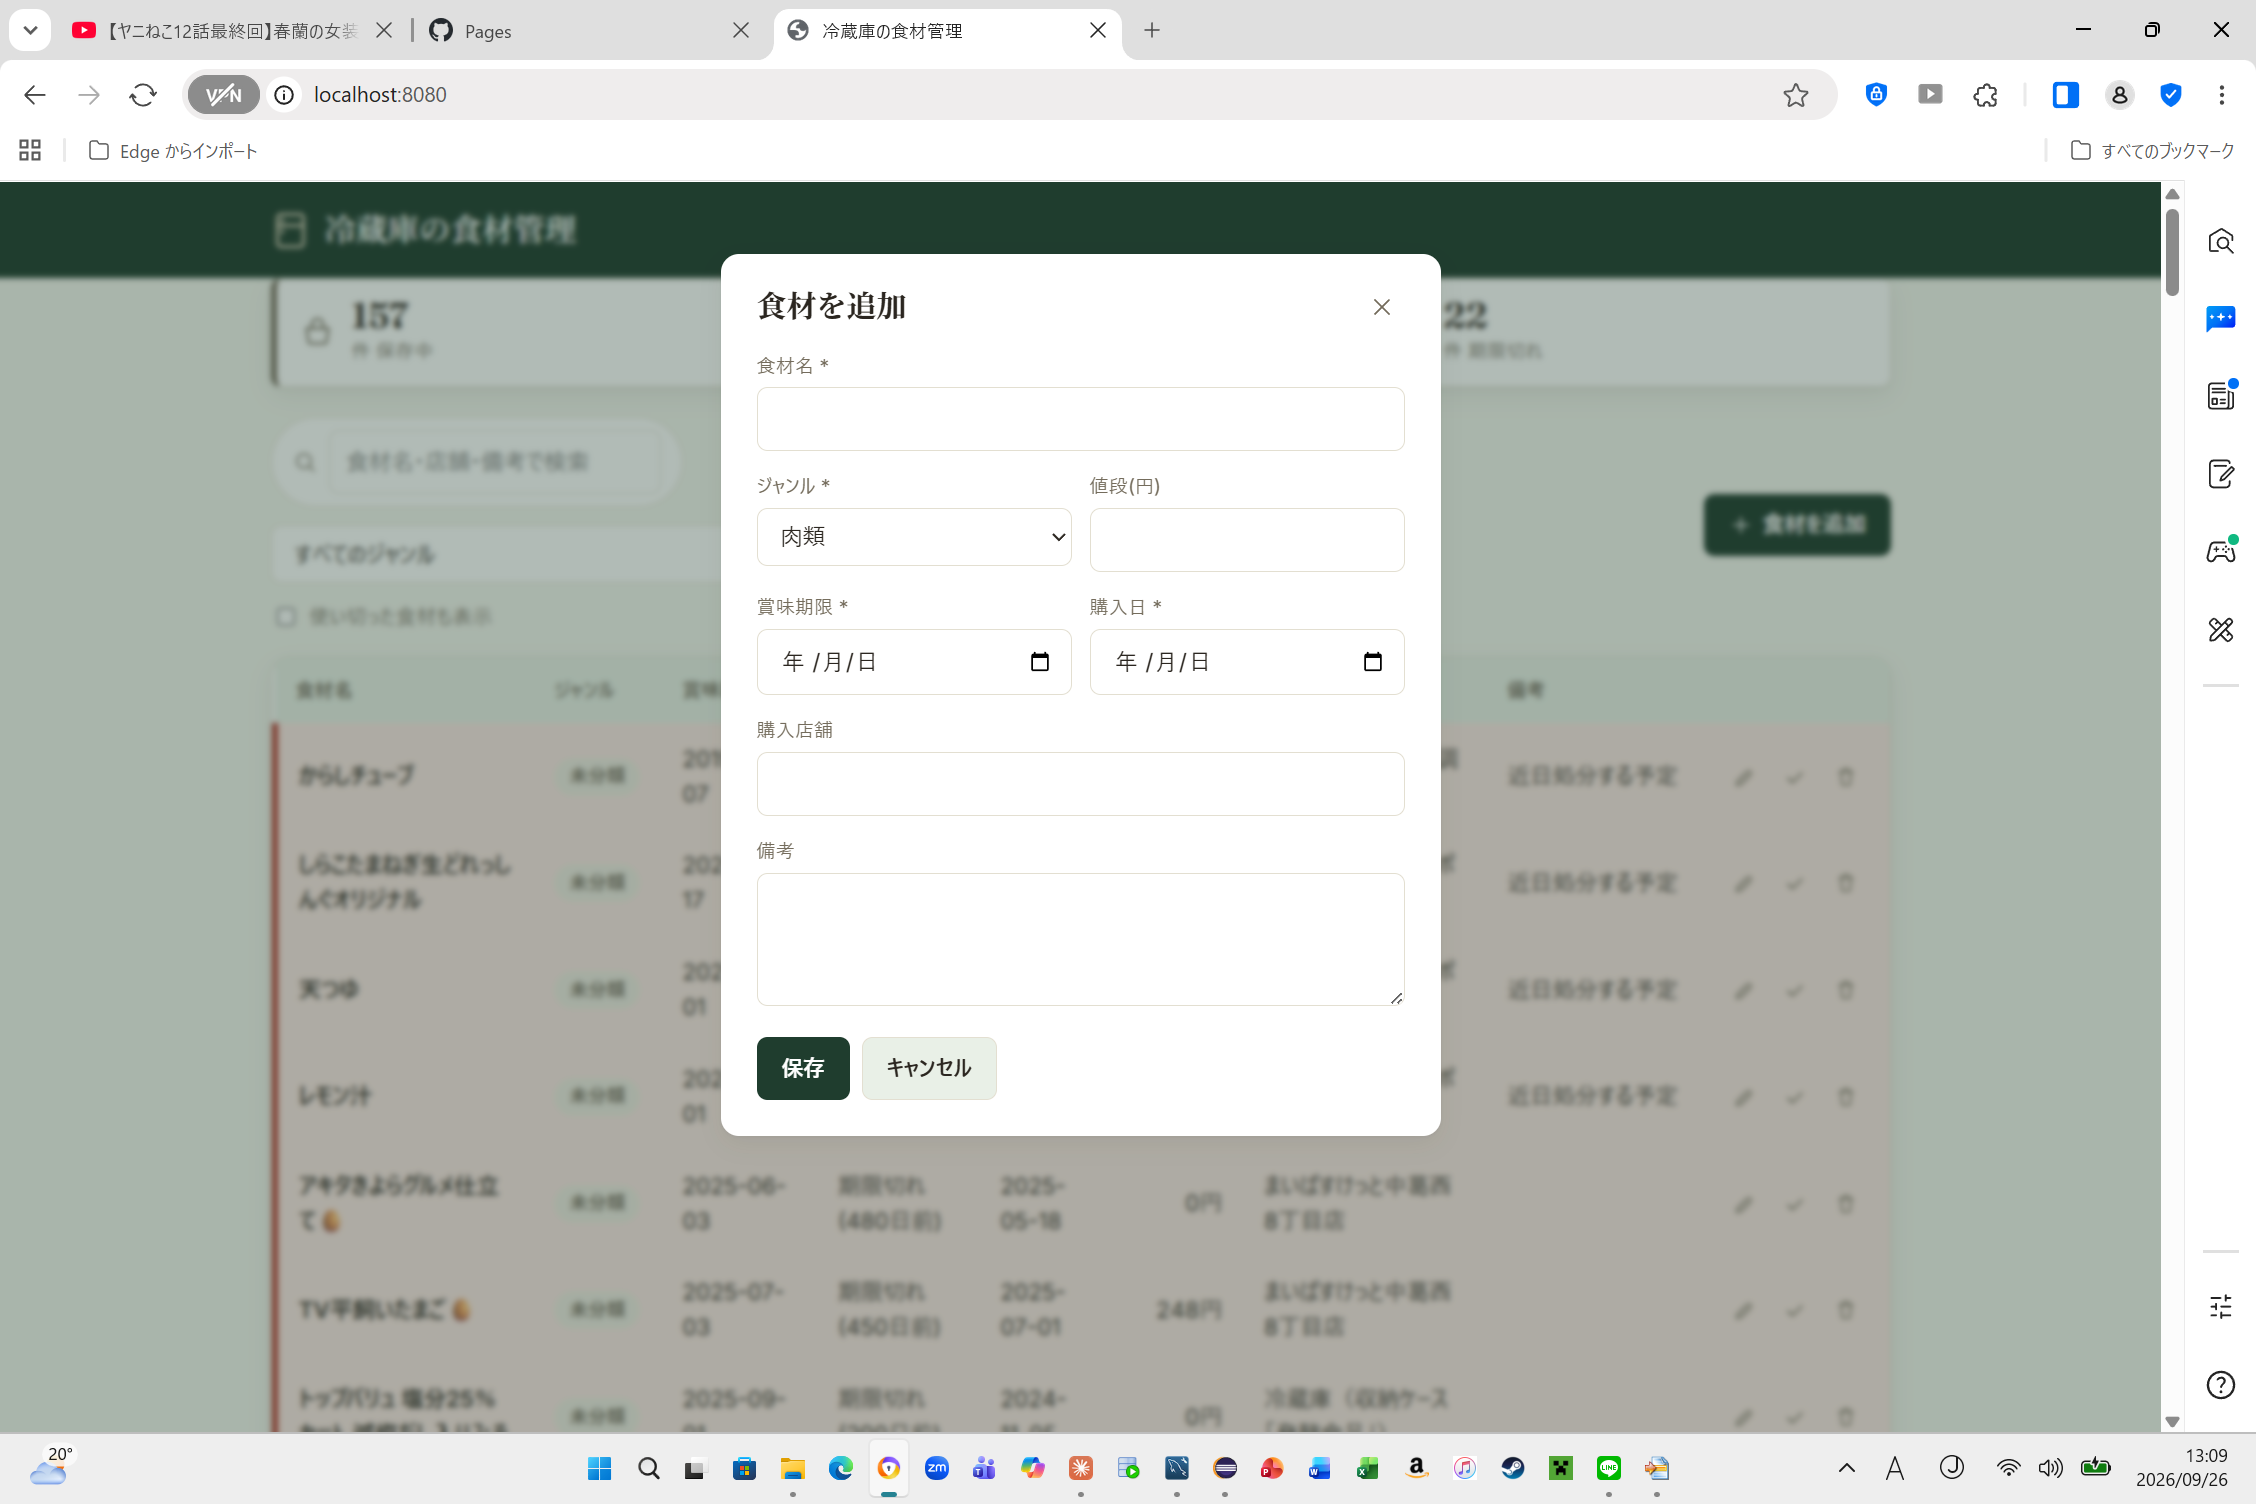
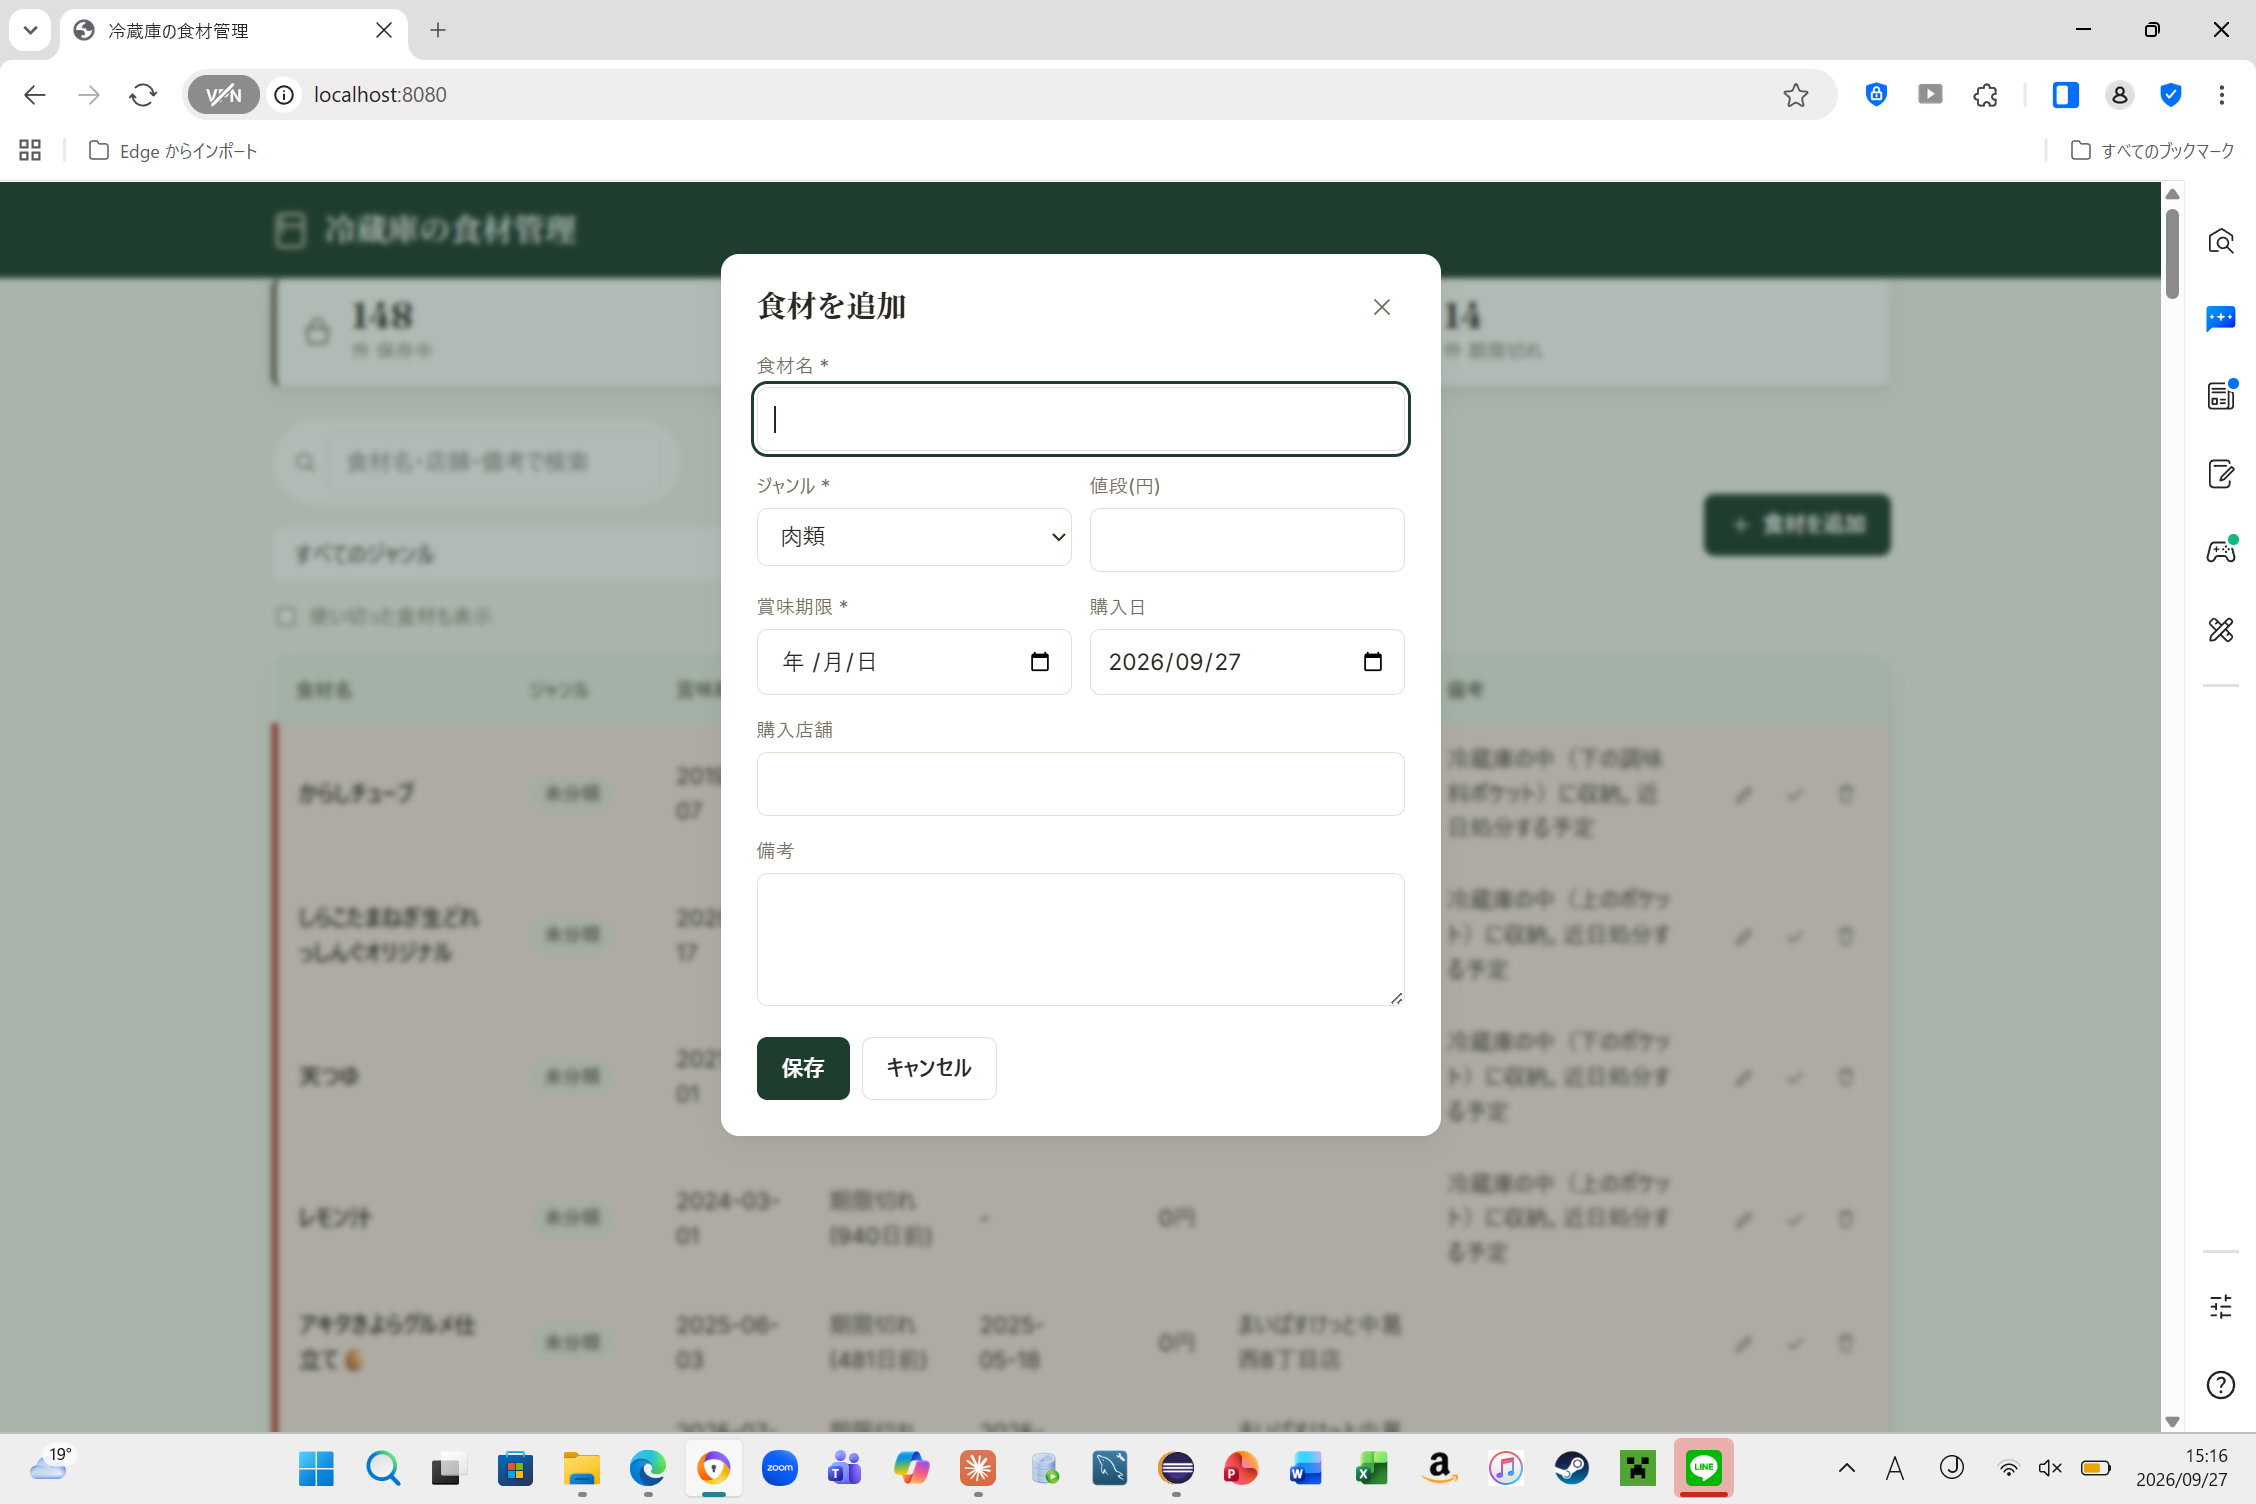
キャプチャ＋READMEを「作成物の概要」にリネーム

diff --git a/FridgeWeb/index.html b/FridgeWeb/index.html
@@ -1,0 +1,163 @@
+<!DOCTYPE html>
+<!--
+  冷蔵庫の食材管理・画面本体(HTML)。
+  中身のデータはここには書かず、script.js が /api/items から取得して
+  JavaScriptで一覧やフォームを作る(見た目は style.css、動きは script.js に分けている)。
+-->
+<html lang="ja">
+<head>
+  <meta charset="UTF-8">
+  <meta name="viewport" content="width=device-width, initial-scale=1">
+  <title>冷蔵庫の食材管理</title>
+
+  <!-- 見出し用の少しクセのあるセリフ体(Fraunces)と、本文・数値用の読みやすいゴシック体(Inter) -->
+  <link rel="preconnect" href="https://fonts.googleapis.com">
+  <link rel="preconnect" href="https://fonts.gstatic.com" crossorigin>
+  <link href="https://fonts.googleapis.com/css2?family=Fraunces:opsz,wght@9..144,500;9..144,600&family=Inter:wght@400;500;600;700&display=swap" rel="stylesheet">
+
+  <link rel="stylesheet" href="style.css">
+</head>
+<body>
+
+  <!-- ヘッダー: アプリ名だけのシンプルな帯。ロゴは絵文字ではなく線画のSVGにしている -->
+  <header class="app-header">
+    <div class="wrap header-inner">
+      <svg class="logo-mark" viewBox="0 0 24 24" fill="none" aria-hidden="true">
+        <rect x="4" y="2" width="16" height="20" rx="2.5" stroke="currentColor" stroke-width="1.6"/>
+        <line x1="4" y1="9" x2="20" y2="9" stroke="currentColor" stroke-width="1.6"/>
+        <line x1="7" y1="5.2" x2="7" y2="6.6" stroke="currentColor" stroke-width="1.6" stroke-linecap="round"/>
+        <line x1="7" y1="12" x2="7" y2="13.4" stroke="currentColor" stroke-width="1.6" stroke-linecap="round"/>
+      </svg>
+      <span class="app-title">冷蔵庫の食材管理</span>
+    </div>
+  </header>
+
+  <main class="wrap">
+
+    <!-- 操作したあとの結果メッセージ(「追加しました」など)を出す場所。普段は非表示 -->
+    <div id="toast" class="toast" role="status" hidden></div>
+
+    <!-- 件数のまとめ(全件・期限切れ・期限間近)。中の数字だけ script.js が書き換える -->
+    <div class="stat-row" aria-label="在庫のまとめ">
+      <div class="stat-ticket stat-total">
+        <svg viewBox="0 0 24 24" fill="none" aria-hidden="true"><path d="M4 9h16l-1.4 9.2a2 2 0 0 1-2 1.8H7.4a2 2 0 0 1-2-1.8L4 9Z" stroke="currentColor" stroke-width="1.6" stroke-linejoin="round"/><path d="M8 9V6a4 4 0 0 1 8 0v3" stroke="currentColor" stroke-width="1.6"/></svg>
+        <div><strong id="statTotal">0</strong><span>件 保存中</span></div>
+      </div>
+      <div class="stat-ticket stat-soon">
+        <svg viewBox="0 0 24 24" fill="none" aria-hidden="true"><path d="M12 7v5.5l3.5 2" stroke="currentColor" stroke-width="1.6" stroke-linecap="round"/><circle cx="12" cy="12" r="9" stroke="currentColor" stroke-width="1.6"/></svg>
+        <div><strong id="statSoon">0</strong><span>件 まもなく期限</span></div>
+      </div>
+      <div class="stat-ticket stat-expired">
+        <svg viewBox="0 0 24 24" fill="none" aria-hidden="true"><path d="M12 4 21 20H3L12 4Z" stroke="currentColor" stroke-width="1.6" stroke-linejoin="round"/><path d="M12 10v4M12 17.2v.1" stroke="currentColor" stroke-width="1.6" stroke-linecap="round"/></svg>
+        <div><strong id="statExpired">0</strong><span>件 期限切れ</span></div>
+      </div>
+    </div>
+
+    <!-- ジャンルの絞り込み・検索・使い切み表示・追加ボタン -->
+    <div class="toolbar">
+      <div class="toolbar-controls">
+        <div class="search-box">
+          <svg viewBox="0 0 24 24" fill="none" aria-hidden="true"><circle cx="11" cy="11" r="7" stroke="currentColor" stroke-width="1.6"/><line x1="16.2" y1="16.2" x2="21" y2="21" stroke="currentColor" stroke-width="1.6" stroke-linecap="round"/></svg>
+          <input type="search" id="searchBox" placeholder="食材名・店舗・備考で検索">
+        </div>
+        <select id="categoryFilter" aria-label="ジャンルで絞り込み">
+          <option value="">すべてのジャンル</option>
+          <!-- ジャンルの選択肢は script.js が /api/meta から取得して追加する -->
+        </select>
+        <label class="checkbox">
+          <input type="checkbox" id="includeDisposed">
+          使い切った食材も表示
+        </label>
+      </div>
+      <button id="openAddButton" class="btn btn-primary">
+        <svg viewBox="0 0 24 24" fill="none" aria-hidden="true"><line x1="12" y1="5" x2="12" y2="19" stroke="currentColor" stroke-width="1.8" stroke-linecap="round"/><line x1="5" y1="12" x2="19" y2="12" stroke="currentColor" stroke-width="1.8" stroke-linecap="round"/></svg>
+        食材を追加
+      </button>
+    </div>
+
+    <!-- 一覧表(中身の行は script.js が組み立てる)。列見出しをクリックすると並び替えできる -->
+    <div class="table-wrap">
+      <table>
+        <thead>
+          <tr>
+            <th data-sort="name" tabindex="0" role="button">食材名</th>
+            <th data-sort="category" tabindex="0" role="button">ジャンル</th>
+            <th data-sort="expiry" tabindex="0" role="button" aria-sort="ascending">賞味期限</th>
+            <th>残り</th>
+            <th data-sort="purchase" tabindex="0" role="button">購入日</th>
+            <th data-sort="price" tabindex="0" role="button">値段</th>
+            <th>購入店舗</th>
+            <th>備考</th>
+            <th></th>
+          </tr>
+        </thead>
+        <tbody id="itemsBody">
+          <!-- ここに1食材ごとの <tr> が追加される -->
+        </tbody>
+      </table>
+      <!-- 何も無いときの案内(単なる空表示ではなく、次にすることを示す) -->
+      <div id="emptyMessage" class="empty" hidden>
+        <svg viewBox="0 0 24 24" fill="none" aria-hidden="true"><rect x="4" y="2" width="16" height="20" rx="2.5" stroke="currentColor" stroke-width="1.4"/><line x1="4" y1="9" x2="20" y2="9" stroke="currentColor" stroke-width="1.4"/></svg>
+        <p>まだ何も登録されていません</p>
+        <button class="btn sub" id="emptyAddButton">最初の食材を追加する</button>
+      </div>
+    </div>
+  </main>
+
+  <!-- 追加・編集フォーム(モーダル)。普段は非表示にしておき、ボタンを押したときだけ表示する -->
+  <div id="formOverlay" class="overlay" hidden>
+    <form id="itemForm" class="card form" role="dialog" aria-modal="true" aria-labelledby="formTitle">
+      <div class="form-head">
+        <h2 id="formTitle">食材を追加</h2>
+        <button type="button" id="closeXButton" class="icon-btn" aria-label="閉じる">
+          <svg viewBox="0 0 24 24" fill="none" aria-hidden="true"><line x1="5" y1="5" x2="19" y2="19" stroke="currentColor" stroke-width="1.8" stroke-linecap="round"/><line x1="19" y1="5" x2="5" y2="19" stroke="currentColor" stroke-width="1.8" stroke-linecap="round"/></svg>
+        </button>
+      </div>
+      <div id="formErrors" class="error" hidden></div>
+
+      <input type="hidden" id="itemId">
+
+      <label class="field"><span>食材名 *</span>
+        <input type="text" id="fieldName" maxlength="100" required>
+      </label>
+
+      <div class="field-row">
+        <label class="field"><span>ジャンル *</span>
+          <select id="fieldCategory">
+            <!-- script.js が /api/meta から取得して追加する -->
+          </select>
+        </label>
+        <label class="field"><span>値段(円)</span>
+          <input type="number" id="fieldPrice" min="0" step="1" inputmode="numeric">
+        </label>
+      </div>
+
+      <div class="field-row">
+        <label class="field"><span>賞味期限 *</span>
+          <input type="date" id="fieldExpiry" required>
+        </label>
+        <label class="field"><span>購入日</span>
+          <input type="date" id="fieldPurchase">
+        </label>
+      </div>
+
+      <label class="field"><span>購入店舗</span>
+        <input type="text" id="fieldStore" maxlength="100" list="storeOptions">
+        <datalist id="storeOptions"></datalist>
+      </label>
+
+      <label class="field"><span>備考</span>
+        <textarea id="fieldNote" rows="3" maxlength="500"></textarea>
+      </label>
+
+      <div class="actions">
+        <button type="submit" class="btn btn-primary">保存</button>
+        <button type="button" id="cancelButton" class="btn sub">キャンセル</button>
+      </div>
+    </form>
+  </div>
+
+  <!-- 動きの本体はすべて script.js に書いている -->
+  <script src="script.js"></script>
+</body>
+</html>
